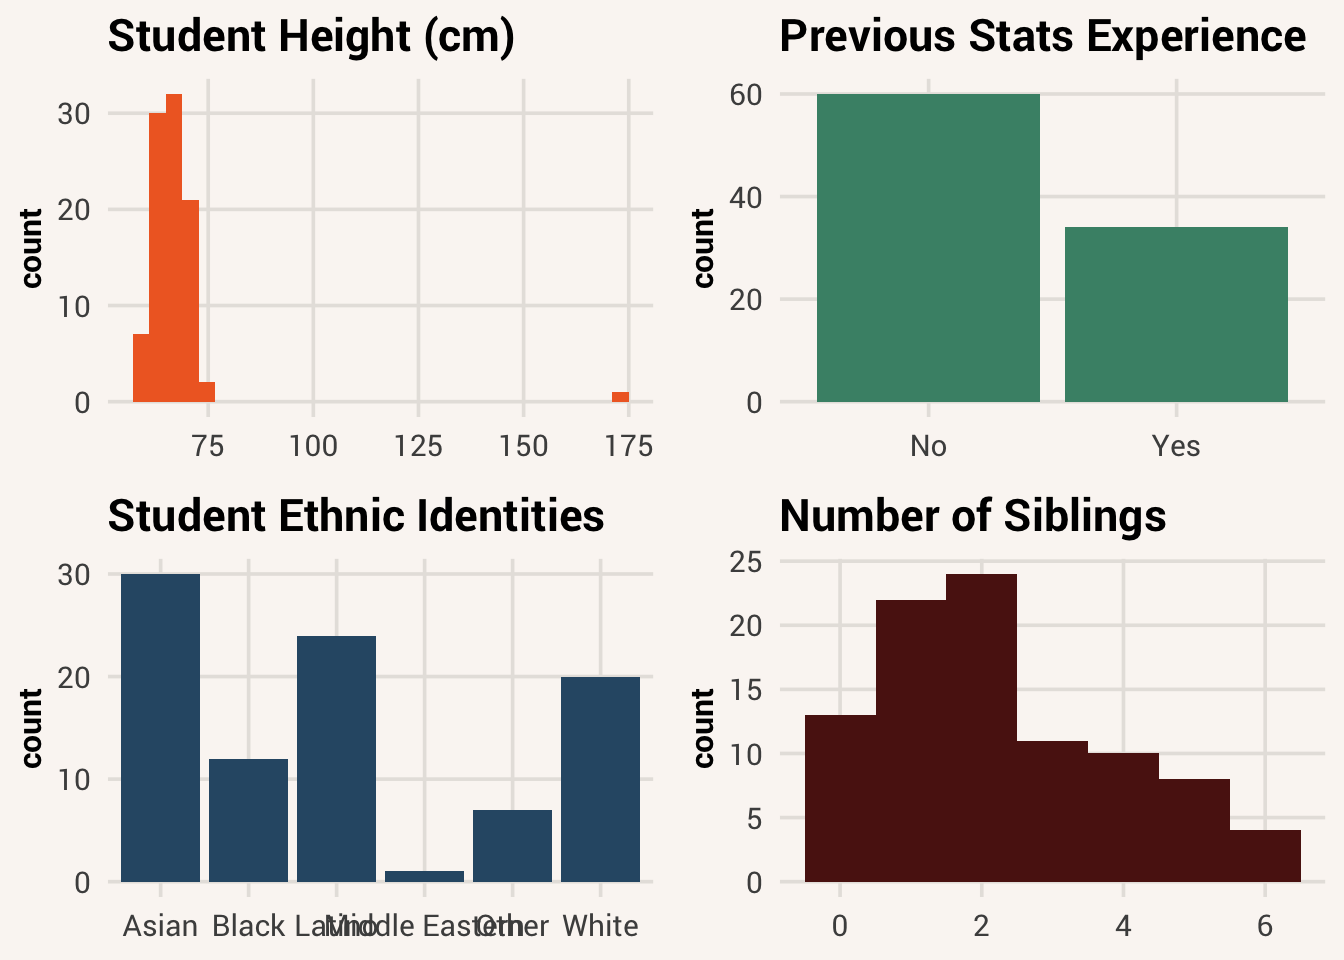
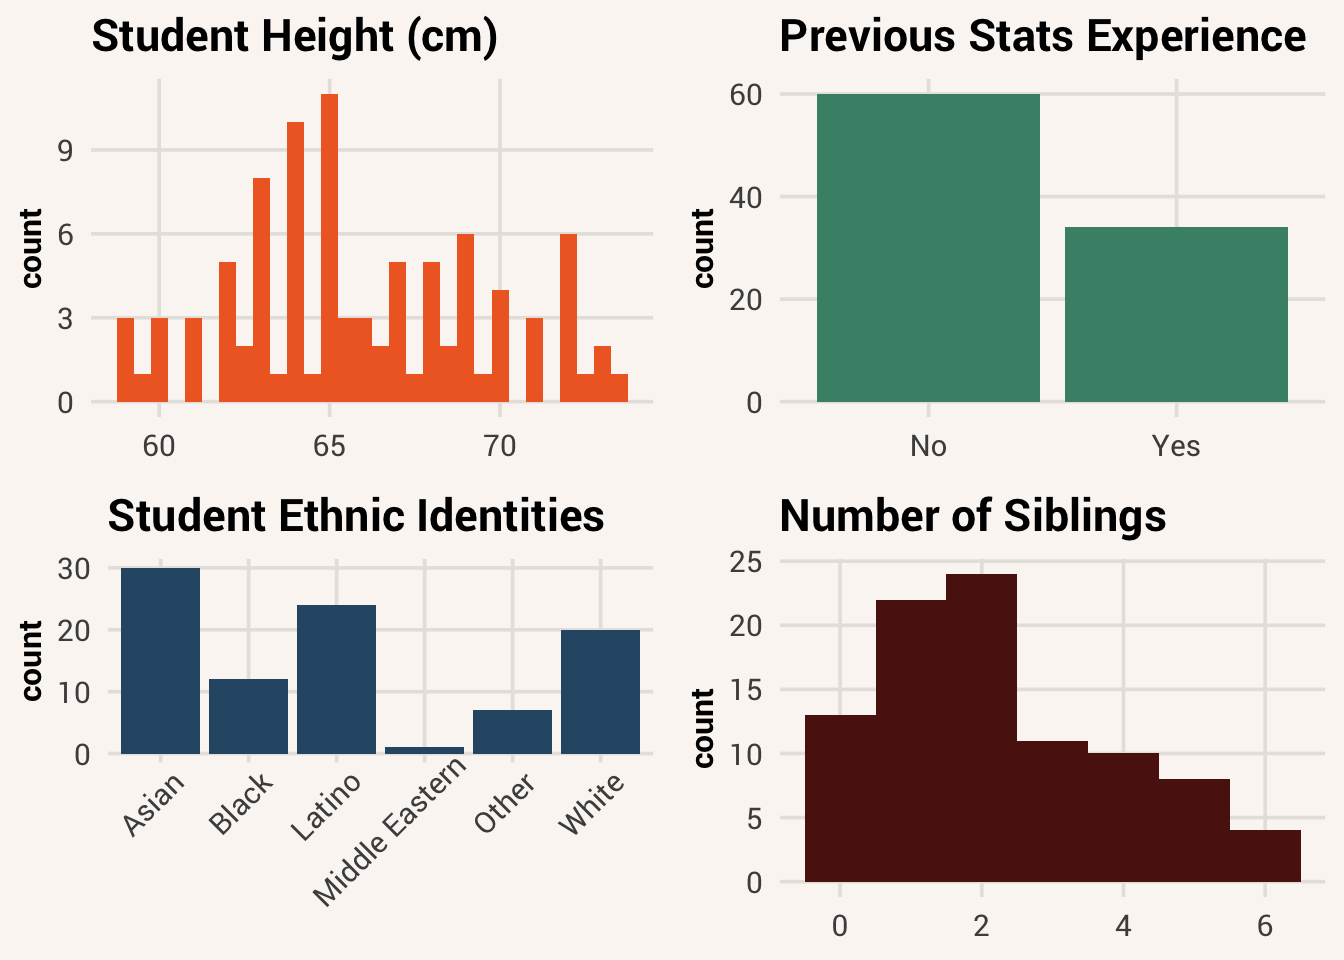
update studentdata.csv for 2026

diff --git a/docs/chapter-5.html b/docs/chapter-5.html
@@ -2687,7 +2687,7 @@ Note
 </section>
 <section id="standard-deviation" class="level3 page-columns page-full" data-number="5.6.5">
 <h3 data-number="5.6.5" class="anchored" data-anchor-id="standard-deviation"><span class="header-section-number">5.6.5</span> Standard deviation</h3>
-<div class="page-columns page-full"><p>Since squaring the deviations is what took us away from the units of the variable originally, we could take the square root of the variance to get back to them. This is known as the <strong>standard deviation</strong>. While a variance of 136.72 inches-squared is weird to think about, it’s much easier to understand a standard deviation of 11.69 inches, since it’s expressed in the original units. Interpret it as the typical amount of deviation you expect any randomly-chosen data point to have from the sample mean.</p><div class="no-row-height column-margin column-container"><span class="margin-aside"><strong>standard deviation</strong> = a measure of variation calculated by taking the square root of the variance</span></div></div>
+<div class="page-columns page-full"><p>Since squaring the deviations is what took us away from the units of the variable originally, we could take the square root of the variance to get back to them. This is known as the <strong>standard deviation</strong>. While a variance of 13.77 inches-squared is weird to think about, it’s much easier to understand a standard deviation of 3.71 inches, since it’s expressed in the original units. Interpret it as the typical amount of deviation you expect any randomly-chosen data point to have from the sample mean.</p><div class="no-row-height column-margin column-container"><span class="margin-aside"><strong>standard deviation</strong> = a measure of variation calculated by taking the square root of the variance</span></div></div>
 <p>The mathematical notation for standard deviation is <span class="math inline">\(s\)</span>, though “sd” and “std dev” are also used at times as abbreviations of the term. Because the standard deviation is equal to the square root of the variance, you probably won’t be surprised to see that the formula is:</p>
 <p><span id="eq-stddev"><span class="math display">\[s = \sqrt{\frac{\sum_{i=1}^{n} (x_i-\bar{x})^2}{n-1}} \tag{5.5}\]</span></span></p>
 <p>This just puts a square root operation around the variance equation (which just divides the sum of squares equation by n-1 - it’s all connected!). The R function to calculate standard deviation is <code>sd()</code>.</p>
@@ -2826,11 +2826,11 @@ Note
 <section id="sec-ch5-zscores" class="level2 page-columns page-full" data-number="5.8">
 <h2 data-number="5.8" class="anchored" data-anchor-id="sec-ch5-zscores"><span class="header-section-number">5.8</span> Z-scores</h2>
 <p>The concepts we’ve covered in this chapter - shape, center, and spread - are all features of a distribution. As we mentioned as the beginning, they don’t apply to individual data points, only the whole. However, they can still be relevant for understanding specific data values, <em>in the context</em> of the whole variable.</p>
-<p>So far our data practice we have only dealt with relatively concrete variables, like <code>Height</code> measured in inches. When we calculate a mean of 66.98 and a standard deviation of 11.69, we know roughly what those amounts look like because we have experience looking at different heights. But what if we got the same standard deviation for a different variable, like light intensity of a light bulb? Do you have any instincts about how much 11.69 lumens is?</p>
+<p>So far our data practice we have only dealt with relatively concrete variables, like <code>Height</code> measured in inches. When we calculate a mean of 65.9 and a standard deviation of 3.71, we know roughly what those amounts look like because we have experience looking at different heights. But what if we got the same standard deviation for a different variable, like light intensity of a light bulb? Do you have any instincts about how much 3.71 lumens is?</p>
 <p>Interpreting the meaning of a variable, and thus its summary statistics, depends on knowing about that variable in real life. It depends on knowing the context of what other values on this variable are typical. This may seem like a problem for doing statistics on variables we are unfamiliar with (which is likely to happen, if we are doing data analysis to understand something better!). However, there is a way we can translate any variable into the same units so that they’re easier to interpret and compare.</p>
 <p>For example, consider a student who is 64 inches tall. Good for them, but what does this mean? Is that a particularly tall height, or pretty normal? How can we know?</p>
-<p>Let’s consider this student’s height relative to the mean of our <code>Height</code> data. By comparing these two values, we know that the student is about 2.98 shorter than average. That helps us get a little closer to understanding what this one data point means. But because we have no idea about the spread of the distribution, we still don’t have a complete answer. Is a 2.98 difference still pretty close to the mean, or is it far away? It’s hard to tell without also knowing what the spread of <code>Height</code> values looks like.</p>
-<p>Standard deviation is useful for this. A standard deviation of 11.69 tells us that, on average, people’s heights are 11.69 away from the mean, both above and below. So although our selected student is below average in height, they are definitely not one of the shortest people in the distribution, or even that atypical - they are only about 0.25 of a standard deviation away from the mean. Check out the histogram in <a href="#fig-ch5-zscore" class="quarto-xref">Figure&nbsp;<span>5.2</span></a> to see this visualized (the green line is the distribution average, while the red line is the selected student’s height).</p>
+<p>Let’s consider this student’s height relative to the mean of our <code>Height</code> data. By comparing these two values, we know that the student is about 1.9 shorter than average. That helps us get a little closer to understanding what this one data point means. But because we have no idea about the spread of the distribution, we still don’t have a complete answer. Is a 1.9 difference still pretty close to the mean, or is it far away? It’s hard to tell without also knowing what the spread of <code>Height</code> values looks like.</p>
+<p>Standard deviation is useful for this. A standard deviation of 3.71 tells us that, on average, people’s heights are 3.71 away from the mean, both above and below. So although our selected student is below average in height, they are definitely not one of the shortest people in the distribution, or even that atypical - they are only about 0.51 of a standard deviation away from the mean. Check out the histogram in <a href="#fig-ch5-zscore" class="quarto-xref">Figure&nbsp;<span>5.2</span></a> to see this visualized (the green line is the distribution average, while the red line is the selected student’s height).</p>
 <div class="cell">
 <div class="cell-output-display">
 <div id="fig-ch5-zscore" class="quarto-float quarto-figure quarto-figure-center anchored">
